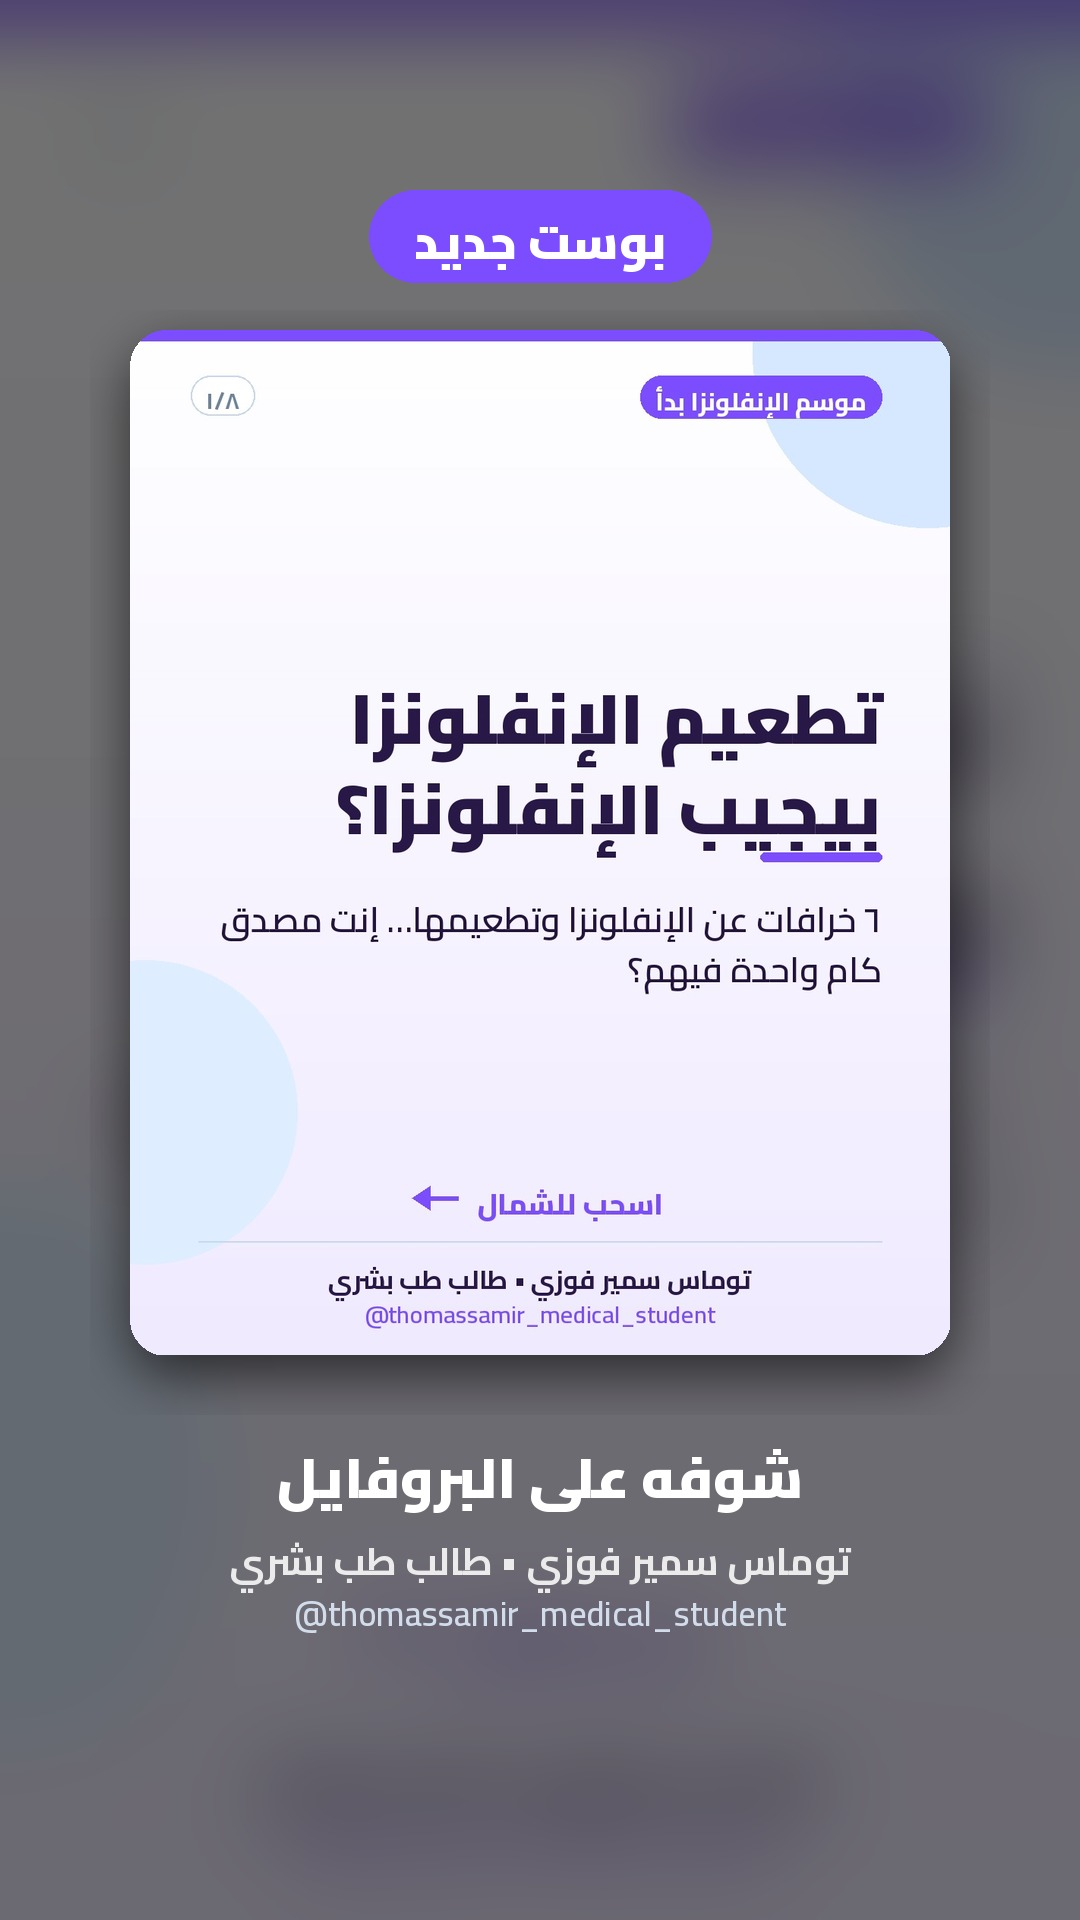
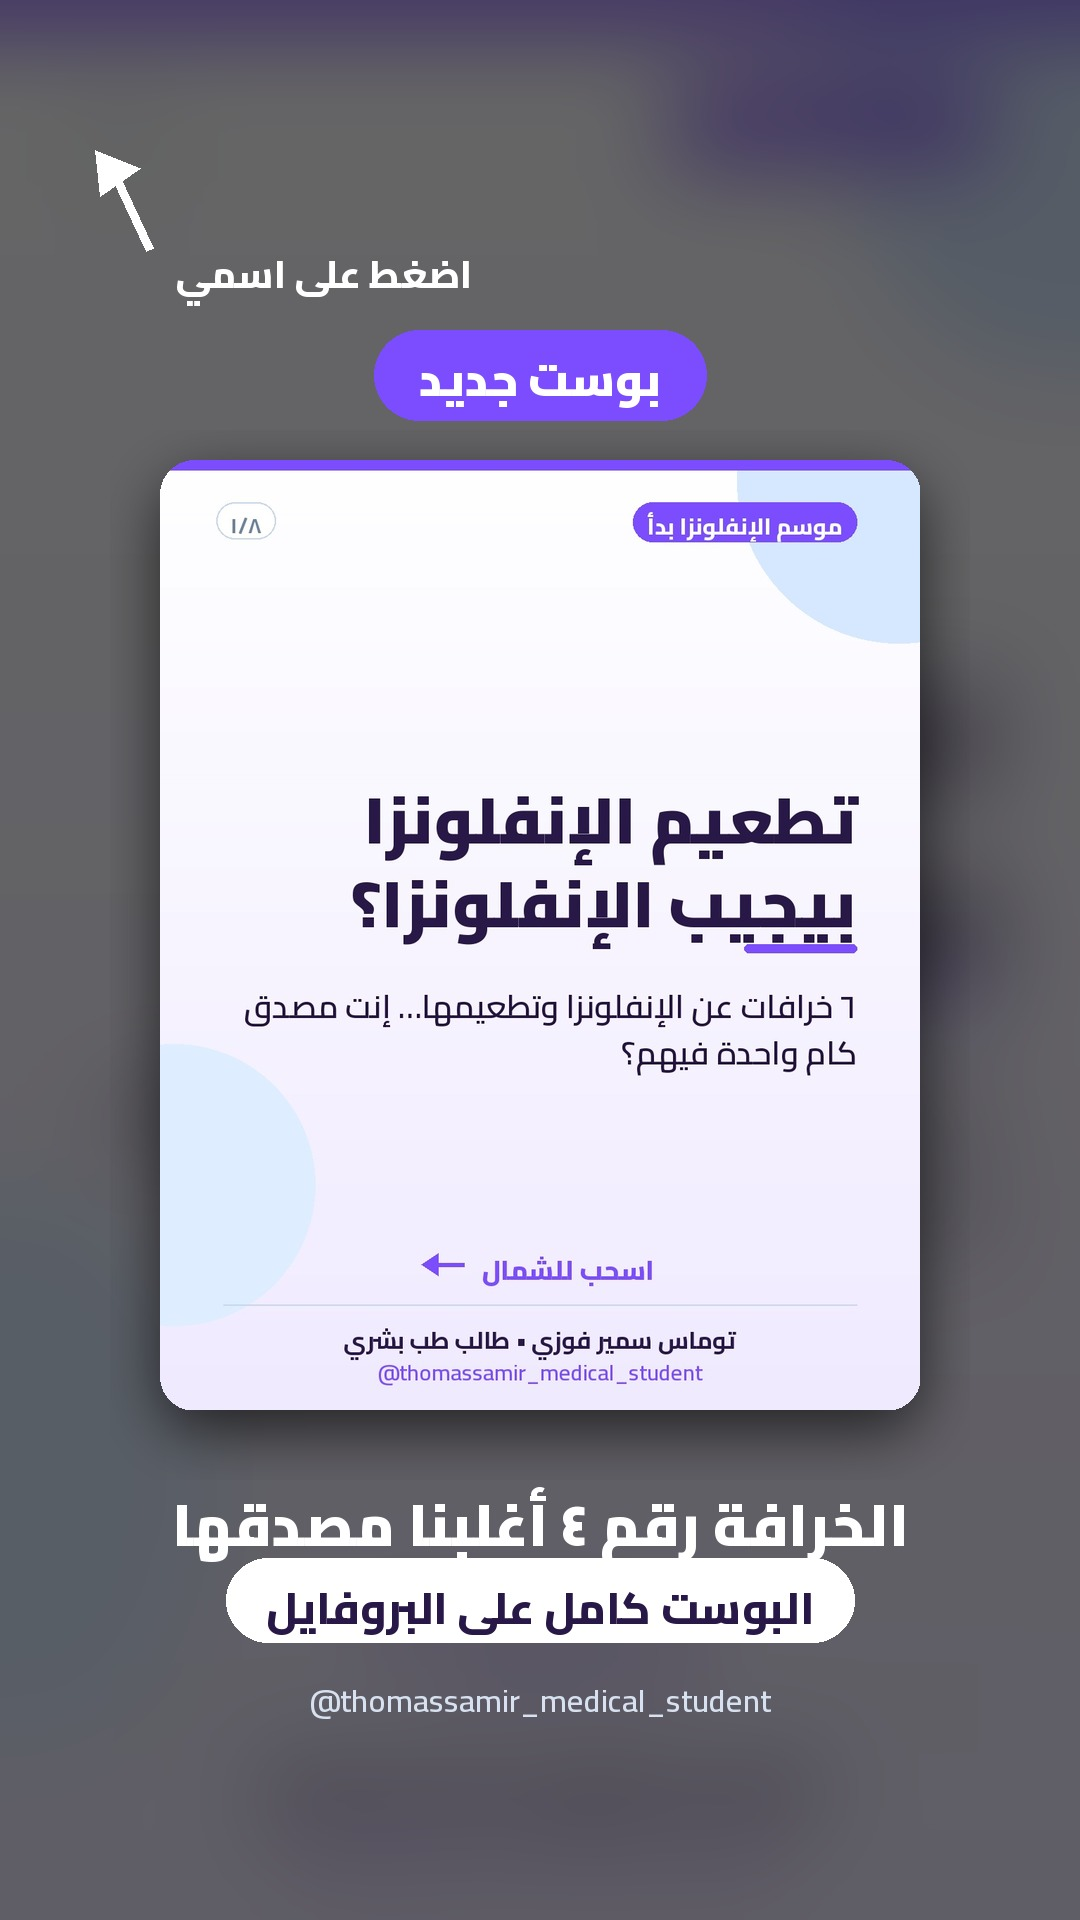
Teaser stories: carousel cover + curiosity line pointing to the profile
Claude-Session: https://claude.ai/code/session_01CwguhjgqABP8Rj6oE5ATJK

Changed region(s): [[0.1222, 0.0938, 0.8861, 0.9062], [0.0917, 0.0625, 0.1528, 0.125]]

diff --git a/tools/make_story.py b/tools/make_story.py
@@ -1,9 +1,12 @@
-"""Story image (1080x1920 JPG) that promotes a carousel post.
+"""Story image (1080x1920 JPG) that teases a carousel and sends people to the profile.
 
-Puts the carousel cover on a blurred, darkened copy of itself, with a
-"بوست جديد" badge on top and "شوفه على البروفايل" + name/username under it.
+Layout: an arrow + "اضغط على اسمي" pointing at the profile name (top-left in
+Instagram/Facebook stories), a "بوست جديد" badge, the carousel cover as a card,
+then a teaser line (curiosity hook) and "البوست كامل على البروفايل".
 
-usage: POST_THEME=<theme> python3 make_story.py posts/<date>-am/slide_01.jpg posts/<date>-am/story.jpg
+usage: POST_THEME=<theme> python3 make_story.py <cover.jpg> <out.jpg> "<teaser>"
+The teaser should create curiosity without giving the answer, e.g.
+"٦ علامات لازم كل أم وأب يعرفوها" or "خرافة رقم ٤ أغلبنا مصدقها".
 """
 import os, sys
 from PIL import Image, ImageDraw, ImageFilter, ImageEnhance
@@ -14,44 +17,66 @@ import make_carousel as mc
 W, H = 1080, 1920
 
 
-def main(cover_path, out_path):
+def centered(d, text, f, y, fill, maxw=W - 140):
+    for line in mc.wrap(d, text, f, maxw):
+        tw = d.textlength(line, font=f, direction="rtl")
+        d.text(((W - tw) / 2, y), line, font=f, fill=fill, direction="rtl")
+        y += int(f.size * 1.35)
+    return y
+
+
+def main(cover_path, out_path, teaser="الباقي هتلاقيه في البوست"):
     cover = Image.open(cover_path).convert("RGB")
-    bg = cover.resize((W, int(cover.height * W / cover.width))).resize((W, H))
-    bg = ImageEnhance.Brightness(bg.filter(ImageFilter.GaussianBlur(40))).enhance(0.45)
+    bg = cover.resize((W, H))
+    bg = ImageEnhance.Brightness(bg.filter(ImageFilter.GaussianBlur(45))).enhance(0.4)
     img = bg.copy()
     d = ImageDraw.Draw(img)
-    # card
-    cw = 820
-    card = cover.resize((cw, int(cover.height * cw / cover.width)), Image.LANCZOS)
-    cx, cy = (W - cw) // 2, 330
-    shadow = Image.new("RGBA", (cw + 80, card.height + 80), (0, 0, 0, 0))
-    ImageDraw.Draw(shadow).rounded_rectangle([40, 40, cw + 40, card.height + 40], radius=40, fill=(0, 0, 0, 150))
-    img.paste(shadow.filter(ImageFilter.GaussianBlur(25)), (cx - 40, cy - 20), shadow.filter(ImageFilter.GaussianBlur(25)))
-    mask = Image.new("L", card.size, 0)
-    ImageDraw.Draw(mask).rounded_rectangle([0, 0, card.width, card.height], radius=36, fill=255)
-    img.paste(card, (cx, cy), mask)
+
+    # arrow pointing at the profile name (top-left of a story)
+    fa = mc.font(38, 800)
+    hint = "اضغط على اسمي"
+    d.line([(150, 250), (115, 175)], fill=(255, 255, 255), width=8)
+    d.polygon([(95, 150), (140, 168), (100, 196)], fill=(255, 255, 255))
+    d.text((175, 238), hint, font=fa, fill=(255, 255, 255), direction="rtl")
+
     # badge
-    f = mc.font(48, 900)
+    f = mc.font(46, 900)
     t = "بوست جديد"
     tw = d.textlength(t, font=f, direction="rtl")
-    bw, bh = tw + 90, 92
+    bw = tw + 90
     bx = (W - bw) / 2
-    d.rounded_rectangle([bx, 190, bx + bw, 190 + bh], radius=46, fill=mc.BLUE)
-    d.text(((W - tw) / 2, 196), t, font=f, fill=(255, 255, 255), direction="rtl")
-    # call to action
-    y = cy + card.height + 70
-    f2 = mc.font(56, 900)
-    t2 = "شوفه على البروفايل"
-    tw = d.textlength(t2, font=f2, direction="rtl")
-    d.text(((W - tw) / 2, y), t2, font=f2, fill=(255, 255, 255), direction="rtl")
-    f3, f4 = mc.font(38, 700), mc.font(34, 600)
-    tw = d.textlength(mc.NAME, font=f3, direction="rtl")
-    d.text(((W - tw) / 2, y + 100), mc.NAME, font=f3, fill=(235, 235, 235), direction="rtl")
+    d.rounded_rectangle([bx, 330, bx + bw, 420], radius=45, fill=mc.BLUE)
+    d.text(((W - tw) / 2, 336), t, font=f, fill=(255, 255, 255), direction="rtl")
+
+    # cover card
+    cw = 760
+    card = cover.resize((cw, int(cover.height * cw / cover.width)), Image.LANCZOS)
+    cx, cy = (W - cw) // 2, 460
+    sh = Image.new("RGBA", (cw + 100, card.height + 100), (0, 0, 0, 0))
+    ImageDraw.Draw(sh).rounded_rectangle([50, 50, cw + 50, card.height + 50], radius=40, fill=(0, 0, 0, 160))
+    sh = sh.filter(ImageFilter.GaussianBlur(28))
+    img.paste(sh, (cx - 50, cy - 30), sh)
+    mask = Image.new("L", card.size, 0)
+    ImageDraw.Draw(mask).rounded_rectangle([0, 0, card.width, card.height], radius=34, fill=255)
+    img.paste(card, (cx, cy), mask)
+
+    # teaser + call to action
+    y = cy + card.height + 60
+    y = centered(d, teaser, mc.font(58, 900), y, (255, 255, 255))
+    y += 10
+    cta = "البوست كامل على البروفايل"
+    fc = mc.font(44, 800)
+    tw = d.textlength(cta, font=fc, direction="rtl")
+    pw = tw + 80
+    px = (W - pw) / 2
+    d.rounded_rectangle([px, y, px + pw, y + 84], radius=42, fill=(255, 255, 255))
+    d.text(((W - tw) / 2, y + 8), cta, font=fc, fill=mc.NAVY, direction="rtl")
+    f4 = mc.font(32, 600)
     tw = d.textlength(mc.USER, font=f4)
-    d.text(((W - tw) / 2, y + 156), mc.USER, font=f4, fill=(210, 220, 235))
+    d.text(((W - tw) / 2, y + 112), mc.USER, font=f4, fill=(215, 225, 240))
     img.save(out_path, "JPEG", quality=92)
     print(out_path)
 
 
 if __name__ == "__main__":
-    main(sys.argv[1], sys.argv[2])
+    main(sys.argv[1], sys.argv[2], sys.argv[3] if len(sys.argv) > 3 else "الباقي هتلاقيه في البوست")

diff --git a/WORKFLOW.md b/WORKFLOW.md
@@ -13,8 +13,11 @@ Folders/specs are named `<date>-am` and `<date>-pm` (e.g. posts/2026-10-21-am, s
 - WHAT THE AUDIENCE NEEDS NOW: before choosing topics, (1) WebSearch what health topics are in the news / trending in Egypt this week and what season it is (heat, flu season, exams, Ramadan, school start, outbreaks, viral myths) and pick topics people are searching for right now; (2) check Metricool analytics for the account's recent posts (getAnalyticsDataByMetrics — reach, saves, shares, plays) and lean toward the formats/topics that performed best.
 - MUSIC: Instagram's publishing API only allows music on reels, not carousels (Metricool returns AUDIO_NOT_APPLICABLE). Do NOT send audioConfiguration on carousels. In the final message, suggest one fitting, currently popular song name per post that the user can add by hand in the Instagram app if they want.
 
-## Stories — do NOT upload stories
-The user wants each post SHARED to the story (Instagram's own "add post to story" button), not re-uploaded as a new story. The publishing API cannot press that button, so never schedule STORY posts. In the final message, remind the user to tap "share to story" on each post after it goes live.
+## Stories — a teaser story for EVERY carousel (cover only, not the whole post)
+- After rendering a carousel, make its story: `POST_THEME=<same theme> python3 tools/make_story.py posts/<date>-<slot>/slide_01.jpg posts/<date>-<slot>/story.jpg "<teaser>"`.
+  The teaser is ONE short Egyptian-Arabic curiosity line that makes people open the profile without giving the answer, different every time (e.g. "الخرافة رقم ٤ أغلبنا مصدقها", "٦ علامات لازم كل أم وأب يعرفوها", "الغلطة رقم ٢ بنعملها كل يوم"). The image already says "بوست جديد", points at the name ("اضغط على اسمي") and says "البوست كامل على البروفايل".
+- Commit/push story.jpg with the post, then schedule it 15 minutes after the post (10:15 / 18:15) with `createScheduledPost`, providers [instagram, facebook], instagramData type STORY, facebookData type STORY, NO text, autoPublish true, media = story.jpg raw URL.
+- If Facebook refuses the story, still schedule the Instagram one and report it.
 
 ## Sources (mandatory)
 Every fact must come from an approved reference — standard medical textbooks (Davidson's, Harrison's, Oxford Handbook of Clinical Medicine, Kumar & Clark, Nelson, Williams Obstetrics) or official bodies (WHO, NHS, NICE, CDC, ECDC, Mayo Clinic, Egyptian Ministry of Health).
@@ -47,4 +50,4 @@ Every fact must come from an approved reference — standard medical textbooks (
 9. Schedule with Metricool `createScheduledPost` for `<date>T10:00:00+03:00` (am) or `<date>T18:00:00+03:00` (pm), autoPublish true, providers [instagram, facebook]:
    - carousel: media = all slide JPG raw URLs in order, instagramData type POST, facebookData type POST.
    - If a provider fails (e.g. facebook disconnected), still schedule for the networks that work and report which one failed.
-10. Check both posts appear in `getScheduledPosts` (no stories). If anything fails, say exactly what failed.
+10. Schedule each post's teaser story (see Stories). Check the 2 posts and 2 stories appear in `getScheduledPosts`. If anything fails, say exactly what failed.
